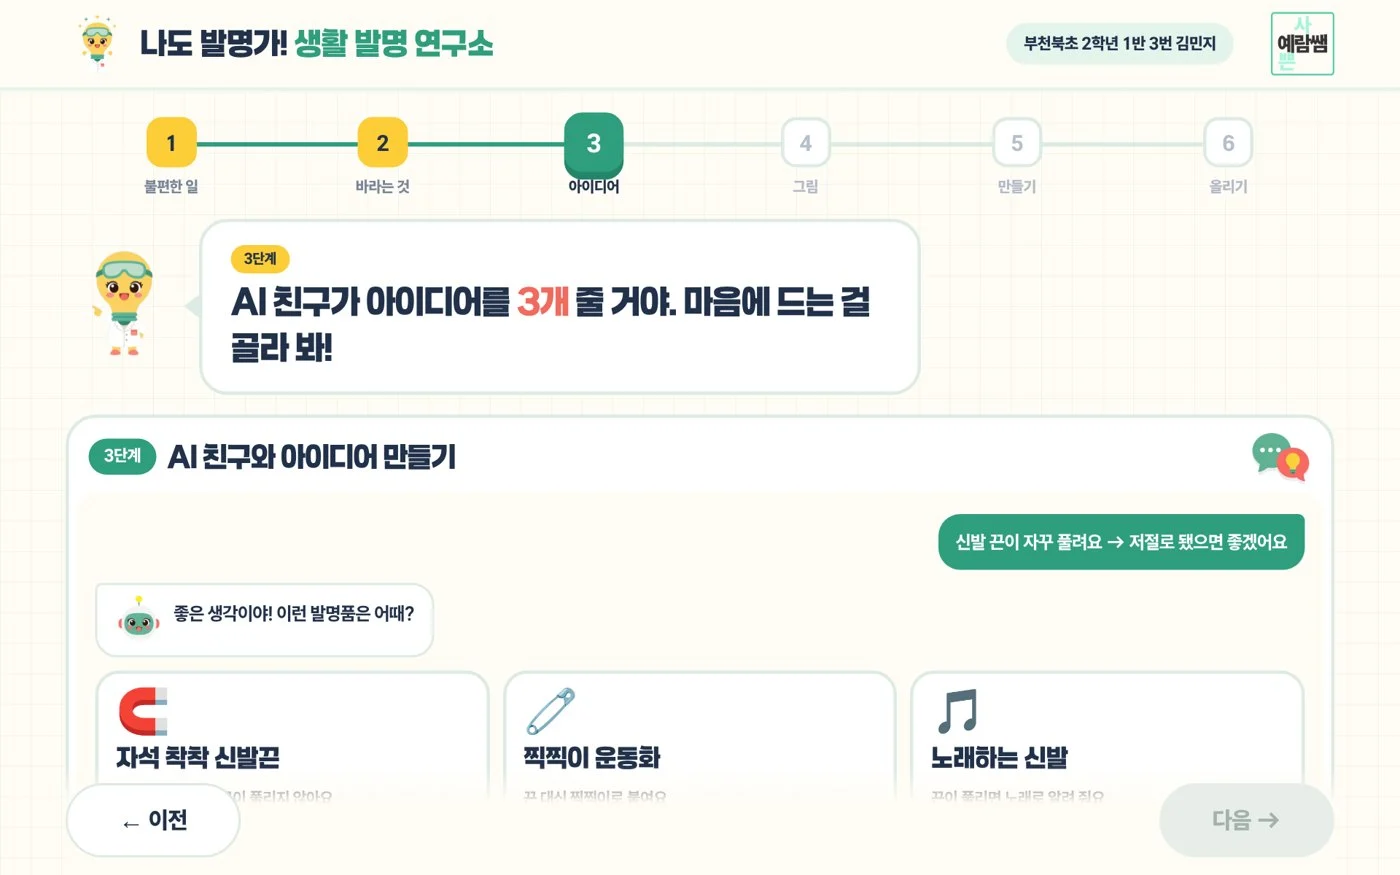
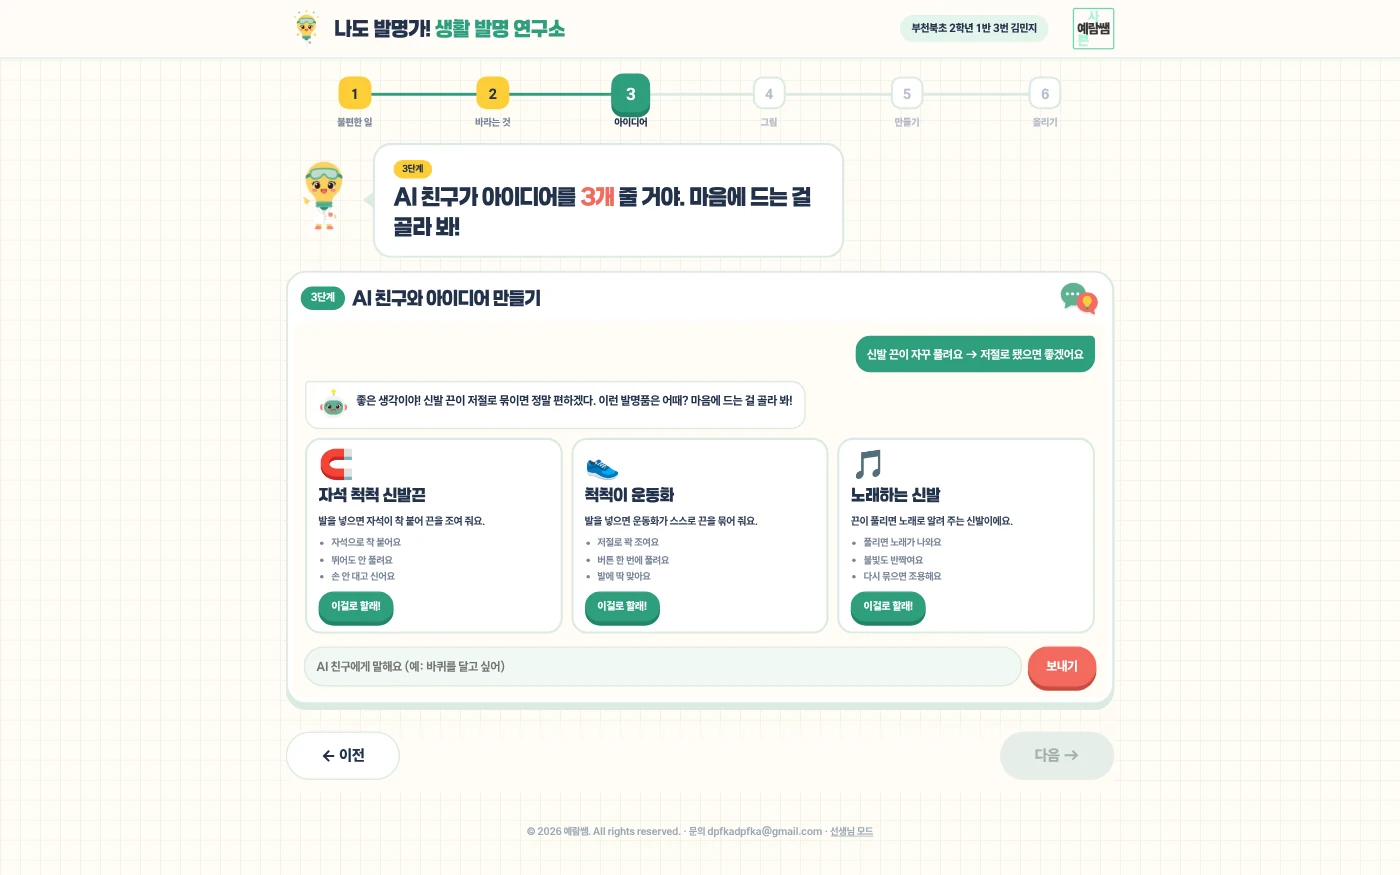
앱 설명 화면: 잘린 캡처 4장을 전체 화면으로 다시 찍음
Claude-Session: https://claude.ai/code/session_01GAFtkmkAShqGxSHJr2soeh

diff --git a/index.html b/index.html
@@ -3,7 +3,7 @@
 <head>
 <meta charset="utf-8">
 <meta http-equiv="Cache-Control" content="no-cache, no-store, must-revalidate"><meta http-equiv="Pragma" content="no-cache"><meta http-equiv="Expires" content="0">
-<script>(function(){var B="1794397822";fetch("version.json?t="+Date.now(),{cache:"no-store"}).then(function(r){return r.json()}).then(function(j){if(j&&j.v&&j.v!==B){var k="yr_rl_"+j.v;try{if(sessionStorage.getItem(k))return;sessionStorage.setItem(k,"1")}catch(e){}var u=new URL(location.href);u.searchParams.set("v",j.v);location.replace(u.toString())}}).catch(function(){})})();</script>
+<script>(function(){var B="1794398093";fetch("version.json?t="+Date.now(),{cache:"no-store"}).then(function(r){return r.json()}).then(function(j){if(j&&j.v&&j.v!==B){var k="yr_rl_"+j.v;try{if(sessionStorage.getItem(k))return;sessionStorage.setItem(k,"1")}catch(e){}var u=new URL(location.href);u.searchParams.set("v",j.v);location.replace(u.toString())}}).catch(function(){})})();</script>
 <meta name="color-scheme" content="light only">
 <meta name="viewport" content="width=device-width,initial-scale=1,viewport-fit=cover">
 <meta name="description" content="초등교사 김예람(예람쌤) — AI 영상·교육 콘텐츠 제작 연수, 영상·웹앱 콘텐츠, 연수 교안과 수업 자료">
@@ -2111,13 +2111,13 @@ var WINAPP={
 Object.assign(WINAPP,{
  '나도 장영실! 시계 발명가':{web:1,lead:'아이가 그린 시계 그림을 AI가 진짜로 움직이는 시계로 만들어 주는 수업 앱이에요.',
   feat:['바늘시계·디지털시계 중에서 골라 만들기','손으로 그린 그림 사진이나 AI 그림으로 시계 만들기','우리 반 전시관에 올리고 좋아요·댓글로 응원하기','선생님은 학교·학년·반과 비밀번호로 우리 반 작품만 관리'],
-  how:['반·번호·이름을 쓰고 시작해요.','만들 시계 종류를 고르고 시계 그림을 올려요.','완성된 시계를 전시관에 올려 친구들과 함께 봐요.'], imgs:['apps/sc_clock_1.webp','apps/sc_clock_2.webp','apps/sc_clock_3.webp','apps/sc_clock_4.webp'], logo:'apps/logo_clock.webp', guide:'apps/guide-clock.pdf'},
+  how:['반·번호·이름을 쓰고 시작해요.','만들 시계 종류를 고르고 시계 그림을 올려요.','완성된 시계를 전시관에 올려 친구들과 함께 봐요.'], imgs:['apps/sc_clock_1.webp','apps/sc_clock_2.webp?v=2','apps/sc_clock_3.webp?v=2','apps/sc_clock_4.webp'], logo:'apps/logo_clock.webp', guide:'apps/guide-clock.pdf'},
  '해시계 물시계 실험실':{web:1,lead:'해시계와 물시계가 어떻게 시간을 재는지 직접 움직여 보며 이해하는 실험 앱이에요.',
   feat:['해의 위치를 바꾸면 그림자가 움직이는 해시계','물이 차오르는 높이로 시간을 읽는 물시계','장영실 인물 수업과 시계 만들기 수업에 바로 연결'],
   how:['해시계나 물시계를 골라요.','해나 물을 직접 움직이며 변화를 살펴봐요.','알게 된 원리를 수업 활동과 이어 가요.'], imgs:['apps/sc_sundial_1.webp','apps/sc_sundial_2.webp','apps/sc_sundial_3.webp','apps/sc_sundial_4.webp'], logo:'apps/logo_sundial.webp', guide:'apps/guide-sundial.pdf'},
  '나도 발명가! 생활 발명 연구소':{web:1,lead:'생활 속 불편함에서 출발해 AI 친구와 아이디어를 키우고, 내 발명품을 그림으로 완성하는 수업 앱이에요.',
   feat:['불편했던 일을 고르거나 직접 쓰기','AI 친구와 대화하며 발명 아이디어 다듬기','내 발명품을 AI 그림으로 완성','반 발명 갤러리에서 친구 작품 구경하기'],
-  how:['반·번호·이름을 쓰고 시작해요.','불편함 → 아이디어 → 그림 순서로 따라가요.','완성한 발명품을 갤러리에 올려요.'], imgs:['apps/sc_invent_1.webp','apps/sc_invent_2.webp','apps/sc_invent_3.webp','apps/sc_invent_4.webp'], logo:'apps/logo_invent.webp', guide:'apps/guide-invent.pdf'},
+  how:['반·번호·이름을 쓰고 시작해요.','불편함 → 아이디어 → 그림 순서로 따라가요.','완성한 발명품을 갤러리에 올려요.'], imgs:['apps/sc_invent_1.webp','apps/sc_invent_2.webp?v=2','apps/sc_invent_3.webp?v=2','apps/sc_invent_4.webp'], logo:'apps/logo_invent.webp', guide:'apps/guide-invent.pdf'},
  '피자로 배우는 삼권분립':{web:1,lead:'피자를 나누는 상황으로 권력을 왜 셋으로 나누는지 알아보는 사회 수업 앱이에요.',
   feat:['피자 한 판을 공평하게 나누는 이야기로 시작','입법·행정·사법이 하는 일을 역할로 체험','캐릭터 말풍선 안내로 혼자서도 차근차근'],
   how:['[다음]을 눌러 이야기를 따라가요.','단계마다 내 생각을 골라 보며 생각을 넓혀요.','마지막 퀴즈로 배운 내용을 확인해요.'], imgs:['apps/sc_pizza_1.webp','apps/sc_pizza_2.webp','apps/sc_pizza_3.webp','apps/sc_pizza_4.webp'], logo:'apps/logo_pizza.webp', guide:'apps/guide-pizza.pdf'},
